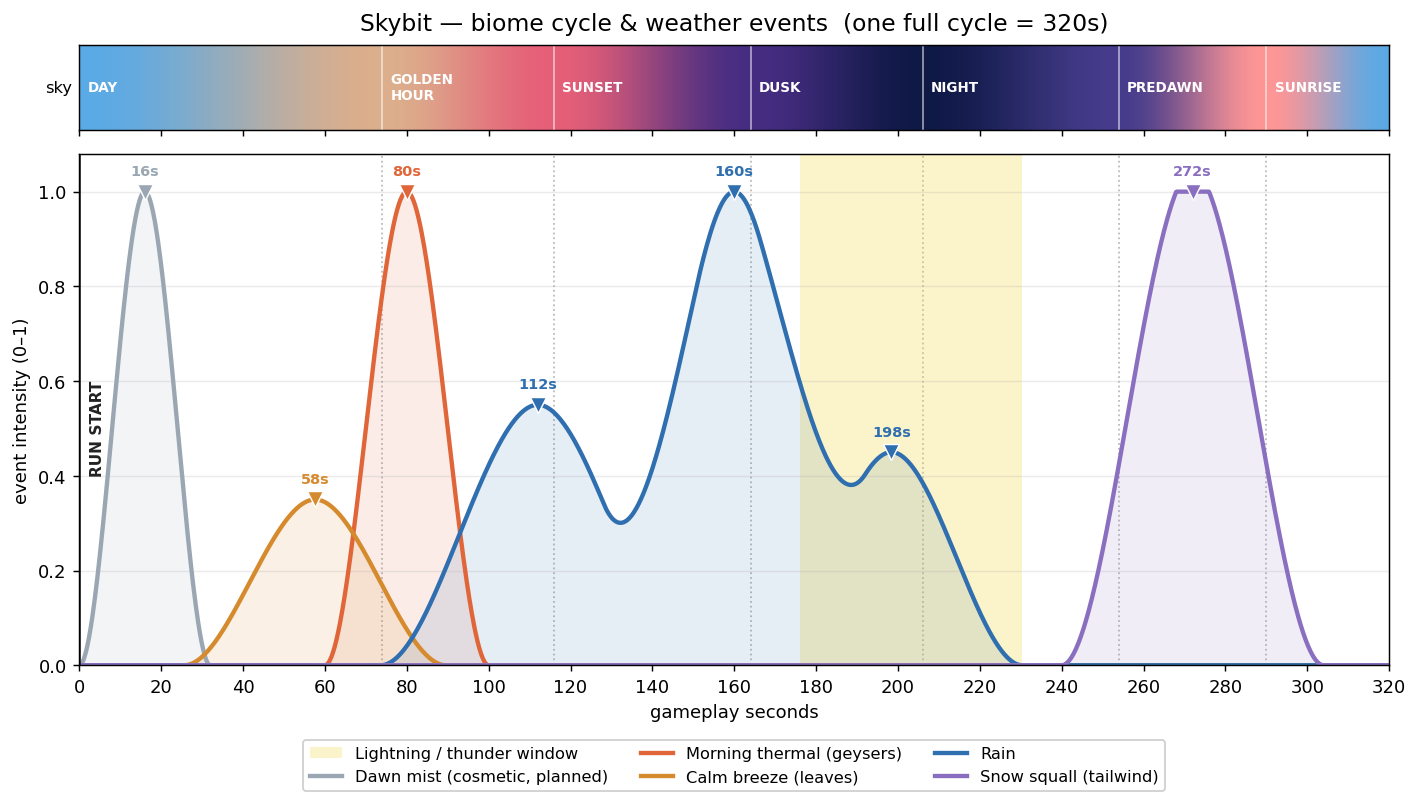
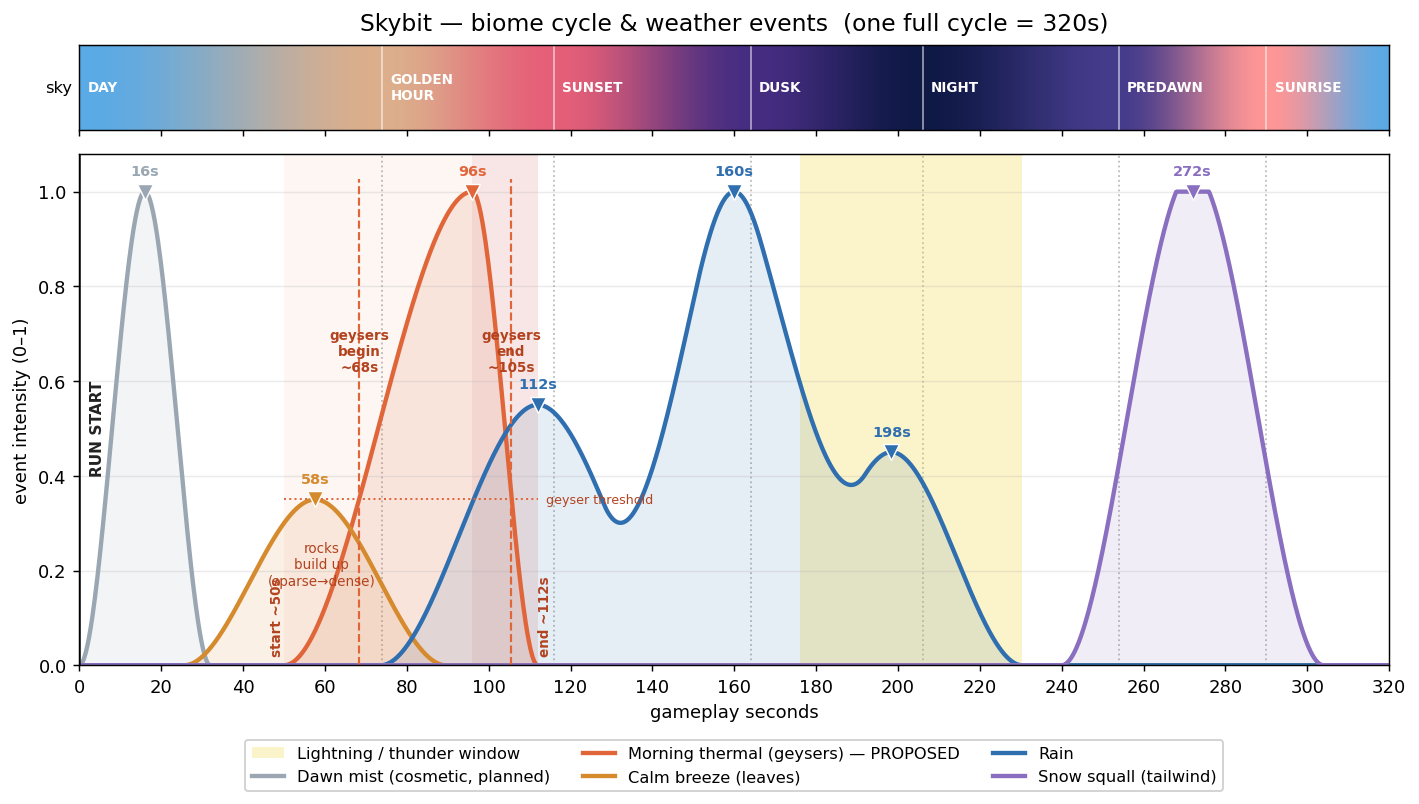
Plot proposed asymmetric morning-thermal curve for review
Adds a plotter-only proposed thermal shape (long buildup ~50-96s, short
fade ~96-112s) with sub-phase annotations: rocks-only build-up, geyser
onset/end threshold, peak, and fade region. game/weather.py untouched
until the timing is approved.

https://claude.ai/code/session_01JWYQYgqQbSfQKYb7zu7YPg

Changed region(s): [[0.2171, 0.1866, 0.4031, 0.8396], [0.155, 0.9017, 0.8682, 0.995], [0.186, 0.653, 0.2791, 0.8396]]

diff --git a/tools/plot_biome_timeline.py b/tools/plot_biome_timeline.py
@@ -44,6 +44,27 @@ def _mist_intensity(phase: float) -> float:
     return weather._bump(phase, 0.05, 0.05)
 
 
+# ── PROPOSED morning-thermal shape (asymmetric: long buildup, short fade) ────
+# Defined HERE in the plotter only — game/weather.py is NOT touched until the
+# timing is approved. Long rising edge (rocks appear sparse → dense, then the
+# first geyser; more geysers as it climbs) and a much shorter falling edge.
+THERMAL_START_S = 50.0    # event on — first stray rocks
+THERMAL_PEAK_S = 96.0     # peak — max concurrent geysers
+THERMAL_END_S = 112.0     # event off — last rocks gone
+GEYSER_THRESH = 0.35      # intensity above which geysers (not just rocks) spawn
+
+
+def _proposed_thermal(phase: float) -> float:
+    t = phase * CYCLE
+    if t <= THERMAL_START_S or t >= THERMAL_END_S:
+        return 0.0
+    if t <= THERMAL_PEAK_S:                       # long smooth rise 0→1
+        u = (t - THERMAL_START_S) / (THERMAL_PEAK_S - THERMAL_START_S)
+    else:                                         # short smooth fall 1→0
+        u = (THERMAL_END_S - t) / (THERMAL_END_S - THERMAL_PEAK_S)
+    return u * u * (3 - 2 * u)
+
+
 # Biome keyframe labels at their wall-clock timestamps (phase * cycle).
 PHASE_LABELS = [
     (0.00000, "DAY"),
@@ -58,7 +79,8 @@ PHASE_LABELS = [
 # (label, intensity-fn, line colour, peak-phase list)
 CURVES = [
     ("Dawn mist (cosmetic, planned)", _mist_intensity, "#9aa7b3", [0.05]),
-    ("Morning thermal (geysers)", weather.thermal_intensity, "#e0663a", [0.25]),
+    ("Morning thermal (geysers) — PROPOSED", _proposed_thermal, "#e0663a",
+     [THERMAL_PEAK_S / CYCLE]),
     ("Calm breeze (leaves)", weather.calm_breeze, "#d68a2e", [0.18]),
     ("Rain", weather.rain_intensity, "#2f6fb0", [0.35, 0.50, 0.62]),
     ("Snow squall (tailwind)", weather.storm_intensity, "#8a6fc0", [0.85]),
@@ -115,6 +137,36 @@ def main() -> None:
             ax.annotate(f"{x:.0f}s", (x, y), textcoords="offset points",
                         xytext=(0, 9), ha="center", fontsize=8,
                         color=color, fontweight="bold")
+
+    # ── Morning-thermal sub-phase annotations (the design under review) ──
+    th_vals = [_proposed_thermal(p) for p in phases]
+    g_on = next((ts[i] for i, v in enumerate(th_vals) if v >= GEYSER_THRESH),
+                THERMAL_PEAK_S)
+    g_off = next((ts[i] for i in range(len(th_vals) - 1, -1, -1)
+                  if th_vals[i] >= GEYSER_THRESH), THERMAL_PEAK_S)
+    ax.axvspan(THERMAL_START_S, THERMAL_PEAK_S, color="#e0663a", alpha=0.06,
+               linewidth=0)                                   # long buildup
+    ax.axvspan(THERMAL_PEAK_S, THERMAL_END_S, color="#c0392b", alpha=0.12,
+               linewidth=0)                                   # short fade
+    ax.hlines(GEYSER_THRESH, THERMAL_START_S, THERMAL_END_S, color="#e0663a",
+              linestyle=":", linewidth=1.1)
+    for xs, lab in ((g_on, "geysers\nbegin"), (g_off, "geysers\nend")):
+        ax.axvline(xs, color="#e0663a", linestyle="--", linewidth=1.2,
+                   ymax=0.95)
+        ax.annotate(f"{lab}\n~{xs:.0f}s", (xs, 0.62),
+                    textcoords="offset points", xytext=(0, 0), ha="center",
+                    fontsize=7.5, color="#b3431f", fontweight="bold")
+    ax.annotate("rocks\nbuild up\n(sparse→dense)",
+                ((THERMAL_START_S + g_on) / 2, 0.17), ha="center",
+                fontsize=7.5, color="#b3431f")
+    ax.annotate("geyser threshold", (THERMAL_END_S + 2, GEYSER_THRESH),
+                fontsize=7, color="#b3431f", va="center")
+    ax.annotate(f"start ~{THERMAL_START_S:.0f}s",
+                (THERMAL_START_S, 0.02), rotation=90, fontsize=7.5,
+                color="#b3431f", va="bottom", ha="right", fontweight="bold")
+    ax.annotate(f"end ~{THERMAL_END_S:.0f}s", (THERMAL_END_S, 0.02),
+                rotation=90, fontsize=7.5, color="#b3431f", va="bottom",
+                ha="left", fontweight="bold")
 
     # Game start marker — label rotated along the line so it clears the
     # early-morning mist/thermal peak labels at the top-left.
